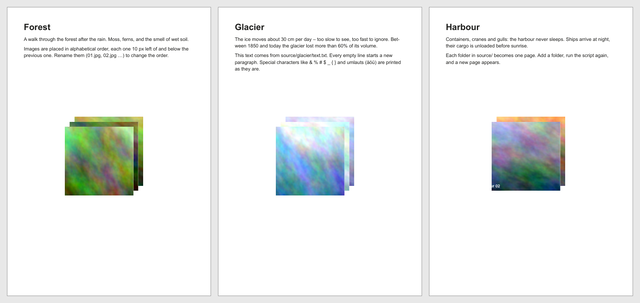
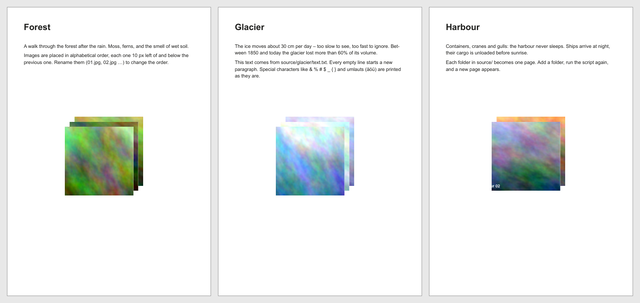
Template with three boxes: title, text and image

Changed region(s): [[0.3438, 0.1188, 0.625, 0.2673], [0.6875, 0.1188, 0.9688, 0.2376], [0.0312, 0.1188, 0.3125, 0.2376]]

diff --git a/Basil Scripts/batch_template/batch_template.jsx b/Basil Scripts/batch_template/batch_template.jsx
@@ -4,8 +4,9 @@
 // Fills the document that is open in InDesign – the template – with one
 // page per folder in source/: the first folder overwrites page 1, every
 // further folder gets a new page with the layout of page 1.
-// On each page, the text from text.txt goes into the text box labelled
-// "text", the first image into the image box labelled "image". Every
+// On each page, the first line of text.txt goes into the frame labelled
+// "title", the rest into the frame labelled "text", the first image into
+// the frame labelled "image". Every
 // further image gets a copy of the previous box, moved 10 px left and
 // 10 px down. The whole document is exported as one PDF and stays open.
 
@@ -18,7 +19,8 @@ var sourceFolder;
 function setup() {
     // the template is the document that was active when the script started
     templateDoc = doc();
-    if (!findLabelled(page(1), "text") || !findLabelled(page(1), "image")) {
+    if (!findLabelled(page(1), "title") || !findLabelled(page(1), "text") ||
+        !findLabelled(page(1), "image")) {
         templateDoc = null;
         return;
     }
@@ -28,8 +30,8 @@ function setup() {
 function draw() {
     if (!templateDoc) {
         alert("Open the template first (e.g. template/template.idml).\n\n" +
-            "Its first page needs a text frame with the script label \"text\" " +
-            "and a graphic frame with the script label \"image\".");
+            "Its first page needs three frames with the script labels " +
+            "\"title\", \"text\" and \"image\" (Window → Utilities → Script Label).");
         return;
     }
     if (!sourceFolder) {
@@ -85,15 +87,19 @@ function draw() {
 // Fills one page with the text and images of one folder
 function fillPage(pg, itemFolder) {
     page(pg); // basil's current page – duplicate() copies onto it
+    var titleBox = findLabelled(pg, "title");
     var textBox = findLabelled(pg, "text");
     var imageBox = findLabelled(pg, "image");
 
     // ---- text: the formatting comes from the placeholder text in the template ----
     var textFile = new File(itemFolder.fsName + "/text.txt");
     if (textFile.exists) {
-        fillText(textBox.parentStory, readParagraphs(textFile));
-        if (textBox.overflows) {
-            println(itemFolder.name + ": the text does not fit into the text box.");
+        var paragraphs = readParagraphs(textFile);
+        // the first paragraph is the title, the rest goes into the text box
+        replaceText(titleBox, paragraphs[0] || "");
+        replaceText(textBox, paragraphs.slice(1).join("\r"));
+        if (titleBox.overflows || textBox.overflows) {
+            println(itemFolder.name + ": the text does not fit into its box.");
         }
     }
 
@@ -115,32 +121,15 @@ function fillPage(pg, itemFolder) {
     }
 }
 
-// Replaces the placeholder text and keeps its formatting: the title replaces
-// the first paragraph, the body everything from the second paragraph on.
-// Replaced text takes on the formatting of the text it replaces – paragraph
-// styles as well as fonts, sizes or colours set directly in the template.
-function fillText(story, paragraphs) {
-    var title = paragraphs[0] || "";
-    var body = paragraphs.slice(1).join("\r");
-
-    // the body first, so the position of the first paragraph stays the same
-    if (story.paragraphs.length > 1) {
-        var bodyRange = story.texts.itemByRange(
-            story.paragraphs[1].insertionPoints[0], story.insertionPoints[-1]);
-        bodyRange.contents = body;
-    } else if (body) {
-        // no body placeholder: append it, formatted like the title
-        story.insertionPoints[-1].contents = "\r" + body;
-    }
-
-    // the title: the characters of the first paragraph, without its return
-    var first = story.paragraphs[0];
-    var count = first.characters.length;
-    if (count > 0 && first.characters[count - 1].contents === "\r") count--;
-    if (count > 0) {
-        first.characters.itemByRange(0, count - 1).contents = title;
+// Replaces the text of a frame and keeps its formatting: new text takes on
+// the formatting of the text it replaces – paragraph styles as well as
+// fonts, sizes or colours set directly in the template.
+function replaceText(frame, str) {
+    var story = frame.parentStory;
+    if (story.characters.length > 0) {
+        story.texts[0].contents = str;
     } else {
-        first.insertionPoints[0].contents = title;
+        story.insertionPoints[0].contents = str;
     }
 }
 

diff --git a/README_DE.md b/README_DE.md
@@ -6,8 +6,9 @@ Ein InDesign-Script, das eine Layoutvorlage mit Inhalt füllt: Das in
 InDesign geöffnete Dokument ist die Vorlage. Für jeden Ordner in `source/`
 füllt es eine Seite – der erste Ordner überschreibt Seite 1, jeder weitere
 bekommt eine neue Seite mit dem Layout von Seite 1 – und exportiert das
-ganze Dokument als ein PDF. Der Text aus `text.txt` kommt in die Textbox,
-die Bilder in die Bildbox; jedes weitere Bild bekommt eine Kopie der Box,
+ganze Dokument als ein PDF. Die Vorlage hat drei Boxen: Die erste Zeile
+von `text.txt` kommt in die Titelbox, der Rest in die Textbox, die Bilder
+in die Bildbox; jedes weitere Bild bekommt eine Kopie der Bildbox,
 10 px nach links und 10 px nach unten verschoben, sodass sich die Bilder
 wie Karten stapeln. Die Gestaltung steckt in der Vorlage – sie wird in
 InDesign geändert, ohne den Code anzufassen. Geschrieben mit
@@ -53,7 +54,7 @@ Die Vorlage und das Ausgangsmaterial:
 
 ```
 template/
-  template.idml    A5-Seite mit einer Textbox und einer Bildbox von 5 × 5 cm
+  template.idml    A5-Seite mit Titelbox, Textbox und einer Bildbox von 5 × 5 cm
 source/
   glacier/
     text.txt       erste Zeile: Titel; eine Leerzeile beginnt einen neuen Absatz
@@ -96,8 +97,10 @@ Jedes geöffnete Dokument kann die Vorlage sein – `template/template.idml`
 als `.indd`, `.indt` oder IDML speichern (*Datei → Kopie speichern…*,
 Format *InDesign Markup (IDML)*). Seite 1 der Vorlage braucht:
 
-- einen Textrahmen mit dem Skriptetikett `text`,
-- einen Grafikrahmen mit dem Skriptetikett `image`.
+- einen Textrahmen mit dem Skriptetikett `title` – für die erste Zeile
+  von `text.txt`,
+- einen Textrahmen mit dem Skriptetikett `text` – für den Rest,
+- einen Grafikrahmen mit dem Skriptetikett `image` – für die Bilder.
 
 Grösse, Position, Farben und alles andere sind frei.
 
@@ -106,8 +109,8 @@ Grösse, Position, Farben und alles andere sind frei.
 1. Das Panel *Fenster → Hilfsprogramme → Skriptetikett* öffnen.
 2. Den Rahmen mit dem **Auswahlwerkzeug** (schwarzer Pfeil, V) auswählen
    – nicht mit dem Textwerkzeug.
-3. Das Etikett ins Panel tippen: `text` oder `image`, klein geschrieben,
-   ohne Leerzeichen oder Zeilenumbruch.
+3. Das Etikett ins Panel tippen: `title`, `text` oder `image`, klein
+   geschrieben, ohne Leerzeichen oder Zeilenumbruch.
 4. **Auf eine leere Stelle der Seite klicken.** Das Etikett wird erst
    gespeichert, wenn das Panel den Fokus verliert; wer direkt einen
    anderen Rahmen anklickt, gibt das Etikett unter Umständen diesem.
@@ -116,14 +119,13 @@ Grösse, Position, Farben und alles andere sind frei.
 
 Der Name eines Rahmens im Panel *Ebenen* ist nicht sein Skriptetikett;
 ihn dort umzubenennen, hat keine Wirkung auf das Script. Die Rahmen in
-`template.idml` haben beide Etiketten schon.
+`template.idml` haben ihre Etiketten schon.
 
-**Der Platzhaltertext bestimmt das Aussehen des Textes**: Sein erster
-Absatz steht für den Titel, sein zweiter für den Fliesstext. Beide so
-formatieren, wie das Ergebnis aussehen soll – mit Absatzformaten oder
-direkt (Schrift, Grösse, Farbe …); der neue Text übernimmt genau diese
-Formatierung. Alle Absätze des Fliesstexts sehen aus wie der zweite
-Platzhalterabsatz.
+**Der Platzhaltertext bestimmt das Aussehen des Textes**: Den Text in den
+Boxen `title` und `text` so formatieren, wie das Ergebnis aussehen soll –
+mit Absatzformaten oder direkt (Schrift, Grösse, Farbe …); der neue Text
+übernimmt genau diese Formatierung. Alle Absätze in der Textbox sehen aus
+wie ihr erster Platzhalterabsatz.
 
 ## Coding-Hilfe
 
@@ -135,7 +137,7 @@ die Bibliothek eingebunden ist.
 - **`setup()`**: `doc()` gibt das aktive Dokument zurück – das ist die
   Vorlage. (Ist kein Dokument offen, legt basil ein leeres an; es hat
   keine etikettierten Rahmen, also bricht das Script mit einer Meldung
-  ab.) `findLabelled()` prüft, ob Seite 1 beide Rahmen hat, danach fragt
+  ab.) `findLabelled()` prüft, ob Seite 1 alle drei Rahmen hat, danach fragt
   `Folder.selectDialog()` nach dem Ordner `source`.
 - **`draw()` → Aufräumen**: `units(PX)` macht `offsetX` / `offsetY` zu
   Pixelwerten. Bildkopien eines früheren Durchlaufs auf Seite 1 (Etikett
@@ -146,15 +148,14 @@ die Bibliothek eingebunden ist.
   einmal pro weiterem Ordner – so beginnt jede Seite mit demselben Layout.
   Erst dann füllt `fillPage()` Seite für Seite.
 - **`fillPage()` → Text**: `findLabelled()` sucht auf dieser Seite die
-  Rahmen mit den Skriptetiketten `text` und `image`. `readParagraphs()`
-  liest `text.txt` als UTF-8; die Absätze, verbunden mit `\r` (dem
-  Absatztrenner von InDesign), gehen an `fillText()`.
-- **`fillText()`**: ersetzt den Platzhaltertext, ohne seine Formatierung
-  anzutasten. Der Fliesstext ersetzt den Bereich vom zweiten Absatz bis
-  zum Ende des Textes (`story.texts.itemByRange(…)`), danach ersetzt der
-  Titel die Zeichen des ersten Absatzes ohne dessen Absatzende. Ersetzter
-  Text übernimmt die Formatierung des Textes, den er ersetzt – das
-  Aussehen ist also in der Vorlage festgelegt, nicht im Code.
+  Rahmen mit den Skriptetiketten `title`, `text` und `image`.
+  `readParagraphs()` liest `text.txt` als UTF-8. Der erste Absatz kommt
+  in die Titelbox, die übrigen – verbunden mit `\r` (dem Absatztrenner
+  von InDesign) – in die Textbox.
+- **`replaceText()`**: ersetzt den ganzen Text eines Rahmens
+  (`story.texts[0].contents`). Ersetzter Text übernimmt die Formatierung
+  des Textes, den er ersetzt – das Aussehen ist also in der Vorlage
+  festgelegt, nicht im Code.
   (Absatzformate aus dem Script zuzuweisen, z. B. mit
   `applyParagraphStyle()`, würde direkt in der Vorlage gesetzte
   Formatierung zurücksetzen.) Ist der Text zu lang für die Box, erscheint

diff --git a/README.md b/README.md
@@ -6,8 +6,9 @@ An InDesign script that fills a layout template with content: the
 document that is open in InDesign is the template. For every folder in
 `source/` it fills one page – the first folder overwrites page 1, every
 further folder gets a new page with the layout of page 1 – and exports the
-whole document as one PDF. The text from `text.txt` goes into the text
-box, the images into the image box; every further image gets a copy of the
+whole document as one PDF. The template has three boxes: the first line
+of `text.txt` goes into the title box, the rest into the text box, the
+images into the image box; every further image gets a copy of the image
 box, moved 10 px to the left and 10 px down, so the images pile up like a
 stack of cards. The design lives in the template – change it in InDesign,
 without touching the code. Written with
@@ -53,7 +54,7 @@ The template and the source material:
 
 ```
 template/
-  template.idml    A5 page with a text box and a 5 × 5 cm image box
+  template.idml    A5 page with a title box, a text box and a 5 × 5 cm image box
 source/
   glacier/
     text.txt       first line: title; an empty line starts a new paragraph
@@ -94,8 +95,10 @@ and run the script directly, or save your own layout as `.indd`, `.indt`
 or IDML (*File → Save a Copy…*, format *InDesign Markup (IDML)*) for
 later. Page 1 of the template needs:
 
-- a text frame with the script label `text`,
-- a graphic frame with the script label `image`.
+- a text frame with the script label `title` – for the first line of
+  `text.txt`,
+- a text frame with the script label `text` – for the rest,
+- a graphic frame with the script label `image` – for the images.
 
 Size, position, colours and everything else are up to you.
 
@@ -104,8 +107,8 @@ Size, position, colours and everything else are up to you.
 1. Open the panel *Window → Utilities → Script Label*.
 2. Select the frame with the **Selection tool** (black arrow, V) – not
    with the Text tool.
-3. Type the label into the panel: `text` or `image`, lowercase, without
-   spaces or a line break.
+3. Type the label into the panel: `title`, `text` or `image`, lowercase,
+   without spaces or a line break.
 4. **Click on an empty spot of the page.** The label is only stored when
    the panel loses focus; clicking another frame directly can give that
    frame the label instead.
@@ -113,13 +116,13 @@ Size, position, colours and everything else are up to you.
 
 The name of a frame in the *Layers* panel is not its script label;
 renaming it there has no effect on the script. The frames in
-`template.idml` already have both labels.
+`template.idml` already have their labels.
 
-**The placeholder text sets the look of the text**: its first paragraph
-stands for the title, its second paragraph for the body. Format them the
-way the result should look – with paragraph styles or directly (font,
-size, colour …); the new text takes on exactly that formatting. All body
-paragraphs look like the second placeholder paragraph.
+**The placeholder text sets the look of the text**: format the text in
+the `title` and `text` boxes the way the result should look – with
+paragraph styles or directly (font, size, colour …); the new text takes on
+exactly that formatting. All paragraphs in the text box look like the
+first placeholder paragraph in it.
 
 ## Coding Help
 
@@ -130,7 +133,7 @@ basil calls both automatically once the library is included.
 - **`setup()`**: `doc()` returns the active document – this is the
   template. (If no document is open, basil creates an empty one; it has no
   labelled frames, so the script stops with a message.) `findLabelled()`
-  checks that page 1 has both frames, then `Folder.selectDialog()` asks
+  checks that page 1 has all three frames, then `Folder.selectDialog()` asks
   for the `source` folder.
 - **`draw()` → clean up**: `units(PX)` makes `offsetX` / `offsetY` pixel
   values. Image copies of a previous run on page 1 (label `image-copy`)
@@ -140,15 +143,14 @@ basil calls both automatically once the library is included.
   copies the still empty page 1 once per further folder – so every page
   starts with the same layout. Only then `fillPage()` fills page by page.
 - **`fillPage()` → text**: `findLabelled()` looks for the frames with the
-  script labels `text` and `image` on this page. `readParagraphs()` reads
-  `text.txt` as UTF-8; the paragraphs, joined with `\r` (InDesign's
-  paragraph separator), go to `fillText()`.
-- **`fillText()`**: replaces the placeholder text without touching its
-  formatting. The body replaces the range from the second paragraph to the
-  end of the story (`story.texts.itemByRange(…)`), then the title replaces
-  the characters of the first paragraph, without its paragraph return.
-  Replaced text takes on the formatting of the text it replaces – so the
-  look is defined in the template, not in the code. (Applying paragraph
+  script labels `title`, `text` and `image` on this page.
+  `readParagraphs()` reads `text.txt` as UTF-8. The first paragraph goes
+  to the title box, the others – joined with `\r` (InDesign's paragraph
+  separator) – to the text box.
+- **`replaceText()`**: replaces the whole text of a frame
+  (`story.texts[0].contents`). Replaced text takes on the formatting of
+  the text it replaces – so the look is defined in the template, not in
+  the code. (Applying paragraph
   styles from the script, e.g. with `applyParagraphStyle()`, would reset
   formatting that was set directly in the template.) If the text is too
   long for the box, a message appears in the console (`println()`).
